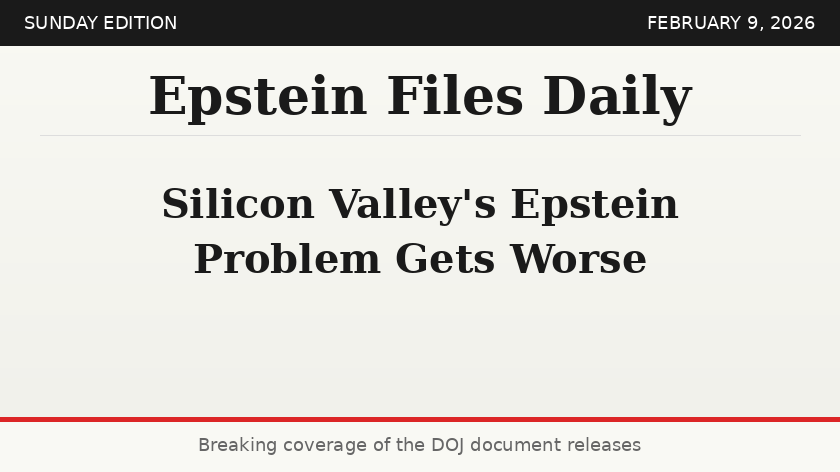
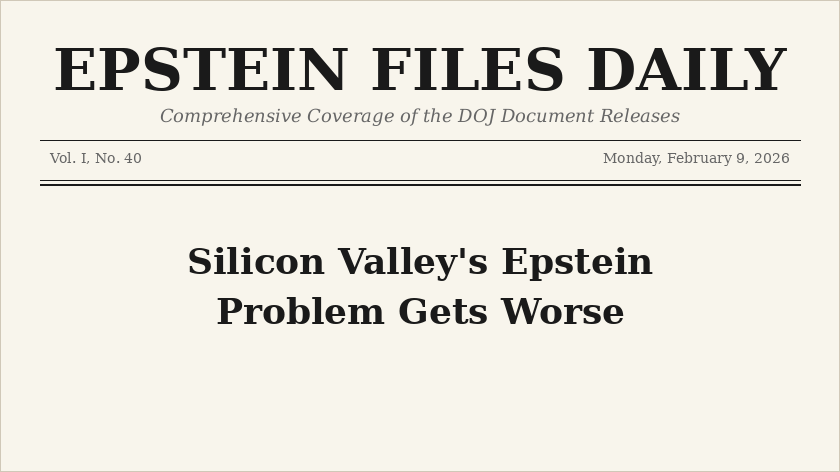
Update thumbnail to Morning Edition newspaper style
- Classic newspaper masthead "EPSTEIN FILES DAILY"
- Tagline, volume/edition numbers, date line
- Double rule border under date
- Serif headline centered
- Monday, February 9, 2026

diff --git a/index.html b/index.html
@@ -384,7 +384,7 @@
                 <article class="article-preview featured" data-tags="peter thiel,elon musk,sergey brin,bill gates">
                     <div class="article-top">
                         <a href="daily-feb-9-2026.html" class="article-thumb">
-                            <img src="images/daily-feb-9-2026.png?v=3" alt="February 9, 2026 Epstein news roundup" loading="lazy">
+                            <img src="images/daily-feb-9-2026.png?v=4" alt="February 9, 2026 Epstein news roundup" loading="lazy">
                         </a>
                         <div class="article-title-section">
                             <div class="article-meta">
